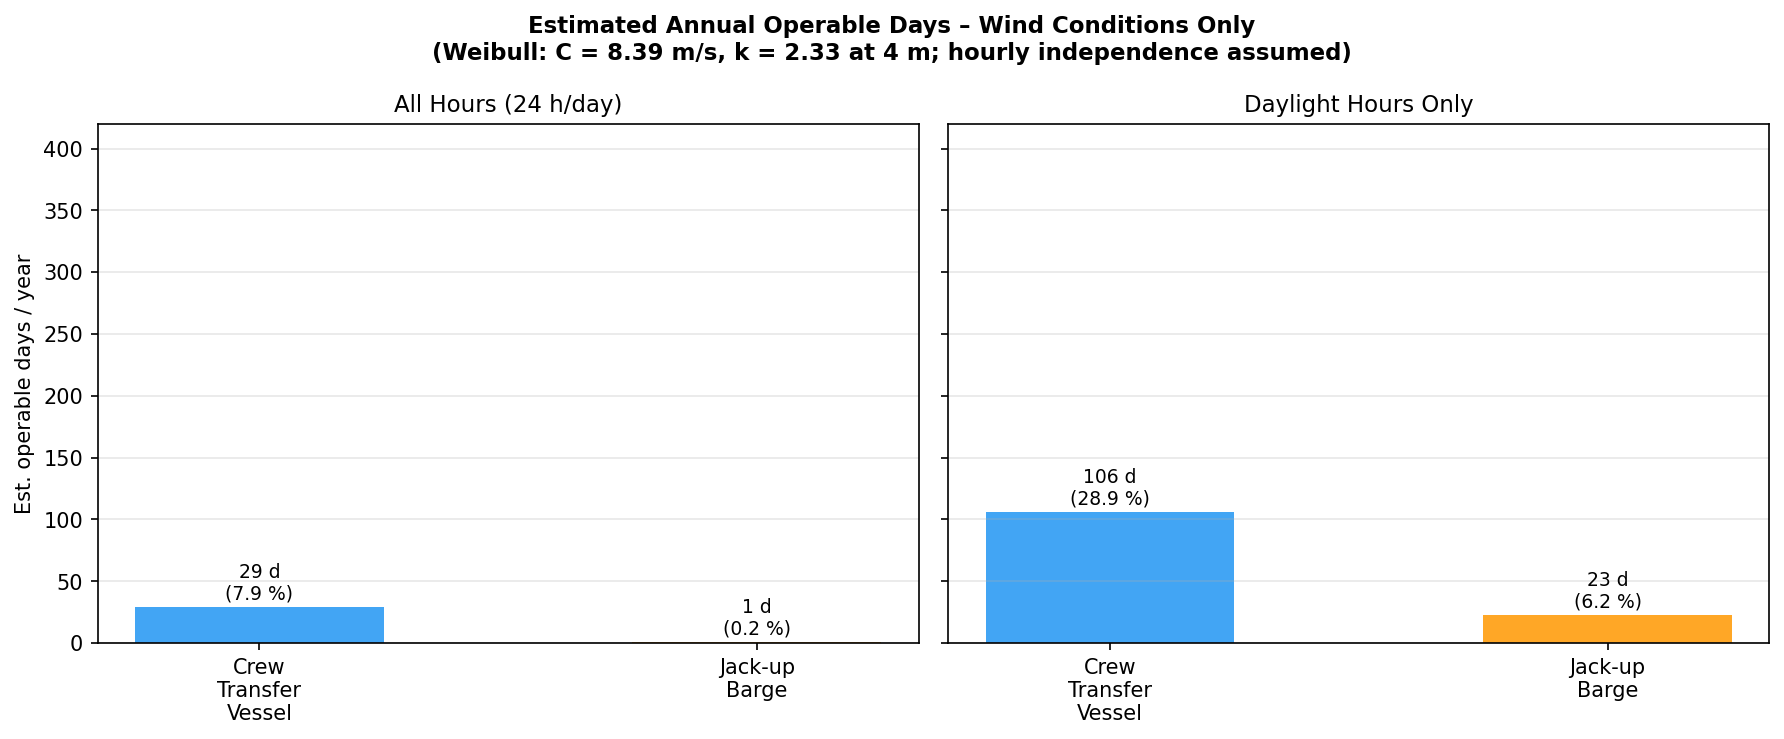
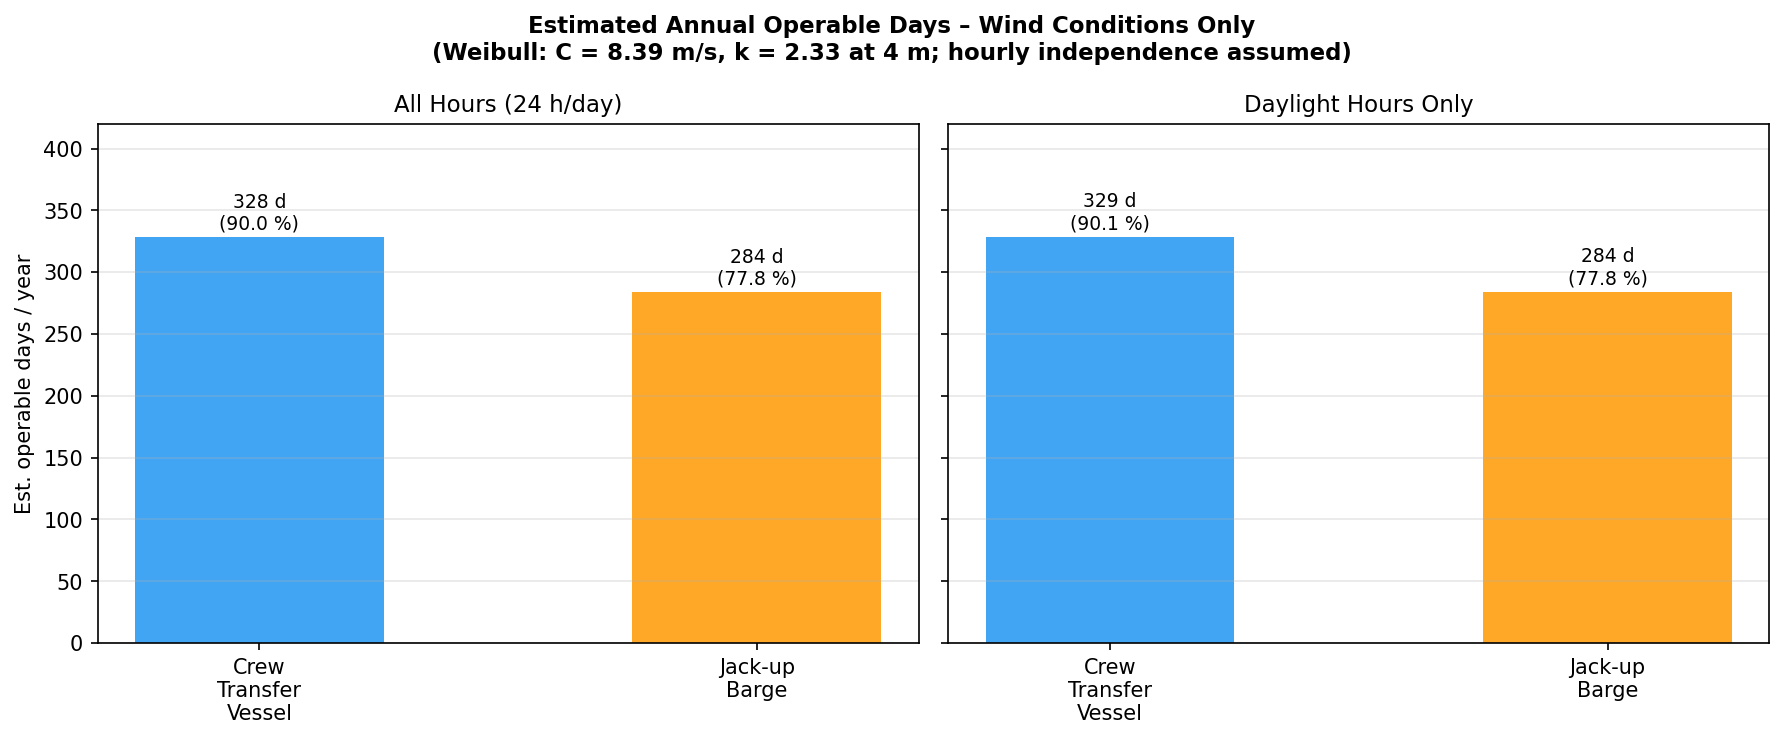
final

diff --git a/wind_analysis_report_final.py b/wind_analysis_report_final.py
@@ -1048,38 +1048,88 @@ for vessel in VESSEL_WIND_LIMITS:
     color  = VESSELS[vessel]['color']
     p_hr   = _wcdf(v_lim, _C_w, _k_w)
 
-    # ALL HOURS: P(full 24-h day operable) = P_hr^24
-    # Assumes consecutive hourly wind speeds are statistically independent —
-    # a simplification that over-estimates operability because real wind speed
-    # exhibits positive autocorrelation (calm spells persist).  The result
-    # should therefore be treated as an upper-bound estimate.
-    p_d24  = p_hr ** 24
-    ann_24 = sum(_avg_month_days[m] * p_d24 for m in range(1, 13))  # [days/yr]
+    # ALL HOURS: operable hours/year = P(hour within limit) × 8760
+    # This directly gives the expected number of hours per year where wind
+    # is within the vessel's operational limit, based on the Weibull fit.
+    # Equivalent operable days = operable hours / 24.
+    op_hours_24h = p_hr * 8760                    # [h/yr] operable hours
+    ann_24       = op_hours_24h / 24              # [days/yr] equivalent operable days
 
-    # DAYLIGHT ONLY: n_dl varies by month as sunrise/sunset shifts seasonally.
-    # Same independence assumption applies; n_dl < 24 so p_hr^n_dl > p_hr^24,
-    # giving more operable days in the daylight-only scenario as expected.
-    ann_dl = 0.0
-    for m in range(1, 13):
-        n_dl    = _dl_hrs.get(m, 12.0)          # [h] mean daylight hours for month m
-        ann_dl += _avg_month_days[m] * (p_hr ** n_dl)
+    # DAYLIGHT ONLY: weight each month by its mean daylight hours.
+    # Total annual daylight hours at site, then scale by P(hour operable).
+    total_dl_hours = sum(_avg_month_days[m] * _dl_hrs.get(m, 12.0)
+                         for m in range(1, 13))   # [h/yr] total daylight hours
+    op_hours_dl    = p_hr * total_dl_hours         # [h/yr] operable daylight hours
+    ann_dl         = op_hours_dl / _dl_monthly.mean()  # [days/yr] equivalent operable days
 
     wind_res[vessel] = {
-        'v_lim':      v_lim,       # [m/s] operational wind speed limit
-        'p_hour':     p_hr,        # [–]   P(1 hour within limit)
-        'p_day_24h':  p_d24,       # [–]   P(full 24-h day within limit)
-        'annual_24h': ann_24,      # [days/yr] expected operable days, all hours
-        'pct_24h':    100 * ann_24 / 365,  # [%]
-        'annual_dl':  ann_dl,
-        'pct_dl':     100 * ann_dl / 365,
-        'color':      color,
+        'v_lim':         v_lim,            # [m/s] operational wind speed limit
+        'p_hour':        p_hr,             # [–]   P(1 hour within limit)
+        'op_hours_24h':  op_hours_24h,     # [h/yr] operable hours (all hours)
+        'annual_24h':    ann_24,           # [days/yr] equivalent operable days, all hours
+        'pct_24h':       100 * p_hr,       # [%]  same as hourly probability
+        'op_hours_dl':   op_hours_dl,      # [h/yr] operable daylight hours
+        'annual_dl':     ann_dl,           # [days/yr] equivalent operable days, daylight
+        'pct_dl':        100 * op_hours_dl / total_dl_hours,  # [%]
+        'color':         color,
     }
 
     print(f"\n{vessel} (wind <= {v_lim} m/s at {REF_HEIGHT} m):")
-    print(f"  P(1-hour operable)             : {p_hr:.4f}  ({100*p_hr:.2f} %)")
-    print(f"  P(full 24-h day operable)      : {p_d24:.4f}  ({100*p_d24:.2f} %)")
-    print(f"  Est. annual days, all hours    : {ann_24:.1f}  ({100*ann_24/365:.1f} %)")
-    print(f"  Est. annual days, daylight only: {ann_dl:.1f}  ({100*ann_dl/365:.1f} %)")
+    print(f"  P(hour operable)  [Weibull CDF]: {p_hr:.4f}  ({100*p_hr:.2f} %)")
+    print(f"  Operable hours/yr (all hours)  : {op_hours_24h:.0f} h  =>  {ann_24:.1f} equiv. days")
+    print(f"  Operable hours/yr (daylight)   : {op_hours_dl:.0f} h  =>  {ann_dl:.1f} equiv. days")
+
+# ── Wave-based operational days (Weibull fit to Hs) ──────────
+print("\n" + "="*60)
+print("WAVE-BASED OPERATIONAL DAYS (Weibull fit to Hs)")
+print("="*60)
+
+# Weibull CDF for Hs: P(Hs <= h) = 1 - exp(-(h/C)^k)
+def _wcdf_hs(h, C, k):
+    return 1.0 - np.exp(-(h / C) ** k)
+
+print(f"\nWeibull parameters for Hs:")
+print(f"  All hours  : k={_hs_k_all:.4f}, C={_hs_C_all:.4f} m")
+print(f"  Daylight   : k={_hs_k_dl:.4f},  C={_hs_C_dl:.4f} m")
+print(f"\nVessel Hs limits:")
+for v, cfg in VESSELS.items():
+    print(f"  {v}: Hs <= {cfg['max_hs']} m")
+
+wave_weibull_res = {}
+for vessel, cfg in VESSELS.items():
+    hs_lim = cfg['max_hs']
+    color  = cfg['color']
+
+    # All hours: use the all-hours Weibull fit
+    p_hr_all    = _wcdf_hs(hs_lim, _hs_C_all, _hs_k_all)
+    op_hrs_24h  = p_hr_all * 8760
+    days_24h    = op_hrs_24h / 24
+
+    # Daylight only: use the daylight Weibull fit, scaled to daylight hours
+    p_hr_dl        = _wcdf_hs(hs_lim, _hs_C_dl, _hs_k_dl)
+    total_dl_hours = sum(_avg_month_days[m] * _dl_hrs.get(m, 12.0)
+                         for m in range(1, 13))
+    op_hrs_dl      = p_hr_dl * total_dl_hours
+    days_dl        = op_hrs_dl / _dl_monthly.mean()
+
+    wave_weibull_res[vessel] = {
+        'hs_lim':        hs_lim,
+        'p_hour_all':    p_hr_all,
+        'op_hours_24h':  op_hrs_24h,
+        'annual_24h':    days_24h,
+        'pct_24h':       100 * p_hr_all,
+        'p_hour_dl':     p_hr_dl,
+        'op_hours_dl':   op_hrs_dl,
+        'annual_dl':     days_dl,
+        'pct_dl':        100 * p_hr_dl,
+        'color':         color,
+    }
+
+    print(f"\n{vessel} (Hs <= {hs_lim} m):")
+    print(f"  P(hour operable) [Weibull, all hrs] : {p_hr_all:.4f}  ({100*p_hr_all:.2f} %)")
+    print(f"  Operable hours/yr (all hours)       : {op_hrs_24h:.0f} h  =>  {days_24h:.1f} equiv. days")
+    print(f"  P(hour operable) [Weibull, daylight]: {p_hr_dl:.4f}  ({100*p_hr_dl:.2f} %)")
+    print(f"  Operable hours/yr (daylight)        : {op_hrs_dl:.0f} h  =>  {days_dl:.1f} equiv. days")
 
 print("\n--- COMBINED WIND + WAVE ACCESSIBILITY SUMMARY ---")
 for vessel in VESSELS:
@@ -1292,12 +1342,13 @@ with pd.ExcelWriter(xl_path, engine='openpyxl') as writer:
     _ww_hdrs = [
         'Vessel',
         f'Max Wind Speed (m/s) at {REF_HEIGHT} m',
-        'P(1-hour operable) (%)',
-        'P(full 24-h day operable) (%)',
-        'Est. annual days - all hours',
-        'Accessibility % - all hours',
-        'Est. annual days - daylight only',
-        'Accessibility % - daylight only',
+        'P(hour operable) (%)',
+        'Operable hours/yr (all hours)',
+        'Equiv. operable days (all hours)',
+        'Accessibility % (all hours)',
+        'Operable hours/yr (daylight)',
+        'Equiv. operable days (daylight)',
+        'Accessibility % (daylight)',
     ]
     for _ci, _h in enumerate(_ww_hdrs, 1):
         _ws_ww.cell(row=_r2, column=_ci, value=_h).font = SUB_FONT
@@ -1307,19 +1358,88 @@ with pd.ExcelWriter(xl_path, engine='openpyxl') as writer:
         for _ci, _val in enumerate([
             _vessel,
             _wr['v_lim'],
-            round(100 * _wr['p_hour'],    2),
-            round(100 * _wr['p_day_24h'], 2),
-            round(_wr['annual_24h'],      1),
-            round(_wr['pct_24h'],         1),
-            round(_wr['annual_dl'],       1),
-            round(_wr['pct_dl'],          1),
+            round(100 * _wr['p_hour'],     2),
+            round(_wr['op_hours_24h'],     0),
+            round(_wr['annual_24h'],       1),
+            round(_wr['pct_24h'],          1),
+            round(_wr['op_hours_dl'],      0),
+            round(_wr['annual_dl'],        1),
+            round(_wr['pct_dl'],           1),
         ], 1):
             _ws_ww.cell(row=_r2, column=_ci, value=_val)
         _r2 += 1
 
     # Column widths
-    for _ci, _cw in enumerate([34, 34, 26, 30, 30, 24, 34, 28], 1):
+    for _ci, _cw in enumerate([34, 34, 26, 30, 30, 24, 34, 28, 28], 1):
         _ws_ww.column_dimensions[get_column_letter(_ci)].width = _cw
+
+    # Sheet: Wave Weibull-based estimate (analogous to Wind_Weibull)
+    _ws_hw = writer.book.create_sheet('Wave_Weibull')
+    _r3 = 1
+
+    # ── Section 1: Weibull parameters for Hs ─────────────────
+    _ws_hw.cell(row=_r3, column=1,
+                value='WEIBULL PARAMETERS FOR Hs (SWAN hindcast, 2021-2025)').font = SUB_FONT
+    _ws_hw.cell(row=_r3, column=1).fill = SUB_FILL
+    _ws_hw.cell(row=_r3, column=2).fill = SUB_FILL
+    _ws_hw.cell(row=_r3, column=3).fill = SUB_FILL
+    _r3 += 1
+    for _lbl, _val_all, _val_dl in [
+        ('Shape parameter k', round(_hs_k_all, 4), round(_hs_k_dl, 4)),
+        ('Scale parameter C (m)', round(_hs_C_all, 4), round(_hs_C_dl, 4)),
+    ]:
+        _ws_hw.cell(row=_r3, column=1, value=_lbl)
+        _ws_hw.cell(row=_r3, column=2, value=f'All hours: {_val_all}')
+        _ws_hw.cell(row=_r3, column=3, value=f'Daylight: {_val_dl}')
+        _r3 += 1
+    _r3 += 1
+
+    # ── Section 2: Vessel Hs limits ──────────────────────────
+    _ws_hw.cell(row=_r3, column=1, value='VESSEL Hs LIMITS').font = SUB_FONT
+    _ws_hw.cell(row=_r3, column=1).fill = SUB_FILL
+    _ws_hw.cell(row=_r3, column=2).fill = SUB_FILL
+    _r3 += 1
+    _ws_hw.cell(row=_r3, column=1, value='Vessel').font = SUB_FONT
+    _ws_hw.cell(row=_r3, column=2, value='Max Hs (m)').font = SUB_FONT
+    _r3 += 1
+    for _vessel, _cfg in VESSELS.items():
+        _ws_hw.cell(row=_r3, column=1, value=_vessel)
+        _ws_hw.cell(row=_r3, column=2, value=_cfg['max_hs'])
+        _r3 += 1
+    _r3 += 1
+
+    # ── Section 3: Per-vessel probability & annual days table ─
+    _hw_hdrs = [
+        'Vessel',
+        'Max Hs (m)',
+        'P(hour operable) % (all hrs)',
+        'Operable hours/yr (all hours)',
+        'Equiv. operable days (all hours)',
+        'P(hour operable) % (daylight)',
+        'Operable hours/yr (daylight)',
+        'Equiv. operable days (daylight)',
+    ]
+    for _ci, _h in enumerate(_hw_hdrs, 1):
+        _ws_hw.cell(row=_r3, column=_ci, value=_h).font = SUB_FONT
+        _ws_hw.cell(row=_r3, column=_ci).fill = SUB_FILL
+    _r3 += 1
+    for _vessel, _wr in wave_weibull_res.items():
+        for _ci, _val in enumerate([
+            _vessel,
+            _wr['hs_lim'],
+            round(100 * _wr['p_hour_all'],  2),
+            round(_wr['op_hours_24h'],      0),
+            round(_wr['annual_24h'],        1),
+            round(100 * _wr['p_hour_dl'],   2),
+            round(_wr['op_hours_dl'],       0),
+            round(_wr['annual_dl'],         1),
+        ], 1):
+            _ws_hw.cell(row=_r3, column=_ci, value=_val)
+        _r3 += 1
+
+    # Column widths for Wave_Weibull sheet
+    for _ci, _cw in enumerate([34, 14, 30, 30, 34, 30, 30, 34], 1):
+        _ws_hw.column_dimensions[get_column_letter(_ci)].width = _cw
 
     # Sheet: Combined wind + wave estimate
     comb_rows = []
@@ -1674,6 +1794,97 @@ with pd.ExcelWriter(xl_ww, engine='openpyxl') as writer:
     pd.DataFrame(month_rows).to_excel(writer, sheet_name='Monthly_Summary', index=False)
 
 print("Saved: Q2_weather_windows.xlsx")
+
+# ── CTV Daylight-Only Weather Window Analysis ─────────────────
+print("\n" + "="*60)
+print("Q2 EXTRA – CTV DAYLIGHT-ONLY WEATHER WINDOWS (2024)")
+print("="*60)
+
+# Add daylight flag to merged_ww using the sunrise/sunset table already computed
+_ss_2024 = sunrise_sunset_df[sunrise_sunset_df['date'].apply(
+    lambda d: d.year if hasattr(d, 'year') else pd.Timestamp(d).year) == 2024].copy()
+merged_ww = merged_ww.merge(
+    _ss_2024[['date', 'sunrise_utc', 'sunset_utc']],
+    on='date', how='left'
+)
+merged_ww['is_daylight_ww'] = (
+    (merged_ww['time'] >= merged_ww['sunrise_utc']) &
+    (merged_ww['time'] <  merged_ww['sunset_utc'])
+)
+
+# Filter to daylight hours only
+_dl_ww = merged_ww[merged_ww['is_daylight_ww']].copy().reset_index(drop=True)
+_dl_times = _dl_ww['time'].values
+
+_ctv_vp = VESSEL_PARAMS['Crew Transfer Vessel']
+_n_req  = _ctv_vp['window_h']
+
+ok_wind_dl = (_dl_ww['WindSpeed_ms'] <= _ctv_vp['max_wind_ms']).fillna(False)
+ok_wave_dl = (_dl_ww['hs']           <= _ctv_vp['max_hs']).fillna(False)
+ok_comb_dl = (ok_wind_dl & ok_wave_dl)
+
+# Find qualifying windows — note: daylight hours are NOT contiguous (gaps at night),
+# so we must check for time continuity. Use the same function but on the filtered data
+# reindexed to detect night gaps as breaks.
+_dl_ww['_consecutive'] = (_dl_ww['time'].diff() > pd.Timedelta(hours=1)).cumsum()
+_dl_windows = []
+for _, grp in _dl_ww.groupby('_consecutive'):
+    _ok_grp = ((grp['WindSpeed_ms'] <= _ctv_vp['max_wind_ms']) &
+               (grp['hs']           <= _ctv_vp['max_hs'])).fillna(False)
+    _wins = find_weather_windows(_ok_grp, grp['time'].values, _n_req)
+    _dl_windows.extend(_wins)
+
+_dl_wins_df = pd.DataFrame(_dl_windows)
+if not _dl_wins_df.empty:
+    _dl_wins_df['start']   = pd.to_datetime(_dl_wins_df['start'])
+    _dl_wins_df['end']     = pd.to_datetime(_dl_wins_df['end'])
+    _dl_wins_df['month']   = _dl_wins_df['start'].dt.month
+
+_dl_monthly_wins = (_dl_wins_df.groupby('month')['duration_h'].count()
+                    .reindex(range(1, 13), fill_value=0)
+                    if not _dl_wins_df.empty
+                    else pd.Series(0, index=range(1, 13)))
+
+# Monthly operable hours within qualifying blocks (daylight only)
+_dl_in_block = np.zeros(len(_dl_ww), dtype=bool)
+_offset = 0
+for _, grp in _dl_ww.groupby('_consecutive'):
+    _ok_grp = ((grp['WindSpeed_ms'] <= _ctv_vp['max_wind_ms']) &
+               (grp['hs']           <= _ctv_vp['max_hs'])).fillna(False)
+    _blk = _hours_in_qualifying_blocks(_ok_grp.values, _n_req)
+    _dl_in_block[_offset:_offset + len(grp)] = _blk
+    _offset += len(grp)
+_dl_ww['_in_block'] = _dl_in_block
+_dl_monthly_block = (
+    _dl_ww.groupby('month')
+    .agg(_block_h=('_in_block', 'sum'), _total_h=('_in_block', 'count'))
+    .reindex(range(1, 13), fill_value=0)
+)
+_dl_monthly_block['pct'] = 100.0 * _dl_monthly_block['_block_h'] / _dl_monthly_block['_total_h'].replace(0, np.nan)
+
+_pct_wind_dl = ok_wind_dl.sum() / len(ok_wind_dl) * 100
+_pct_wave_dl = ok_wave_dl.sum() / len(ok_wave_dl) * 100
+_pct_comb_dl = ok_comb_dl.sum() / len(ok_comb_dl) * 100
+
+print(f"\nCrew Transfer Vessel – DAYLIGHT ONLY  "
+      f"[wind <= {_ctv_vp['max_wind_ms']} m/s, Hs <= {_ctv_vp['max_hs']} m, window = {_n_req} h]")
+print(f"  Daylight hours in 2024       : {len(_dl_ww)}")
+print(f"  Hours where wind OK          : {ok_wind_dl.sum()} / {len(_dl_ww)}  ({_pct_wind_dl:.1f} %)")
+print(f"  Hours where wave OK          : {ok_wave_dl.sum()} / {len(_dl_ww)}  ({_pct_wave_dl:.1f} %)")
+print(f"  Hours where both OK          : {ok_comb_dl.sum()} / {len(_dl_ww)}  ({_pct_comb_dl:.1f} %)")
+print(f"  Qualifying windows (>= {_n_req} h) : {len(_dl_windows)}")
+if _dl_windows:
+    _durs = _dl_wins_df['duration_h']
+    print(f"  Window durations: min={_durs.min()} h, mean={_durs.mean():.0f} h, max={_durs.max()} h")
+    print(f"  Monthly distribution:")
+    for m, cnt in _dl_monthly_wins.items():
+        print(f"    {calendar.month_abbr[m]:>3}: {cnt} window(s)")
+print(f"  Monthly operable hours (within >={_n_req} h blocks, daylight only):")
+for m, row in _dl_monthly_block.iterrows():
+    print(f"    {calendar.month_abbr[m]:>3}: {int(row['_block_h']):>4} / {int(row['_total_h']):>4} h  ({row['pct']:.1f} %)")
+
+# Clean up temporary columns
+merged_ww.drop(columns=['sunrise_utc', 'sunset_utc', 'is_daylight_ww'], inplace=True, errors='ignore')
 
 print("\n" + "="*60)
 print("Q2 EXTRA - CONSECUTIVE WINDOW ANALYSIS COMPLETE")